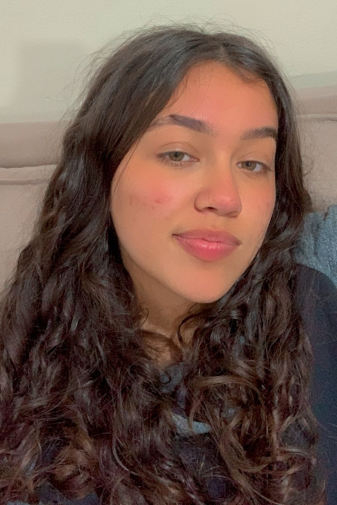
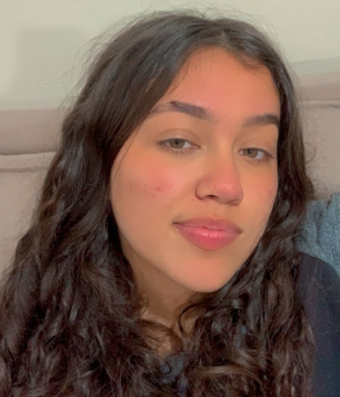
fotos atualizadas

diff --git a/index.html b/index.html
@@ -34,14 +34,14 @@
 
         <div class="kike">
             <img src="imagens/kike.png" alt="desenvolvedor">
-            <h3>desenvolvedor</h3>
+            <h3>Desenvolvedor</h3>
             <p>Henrique é o nosso desenvolvedor principal, ou seja ele é o responsável por estruturar Layouts e toda a interface de um Web Site solicitado pelos clientes</p>
         </div>
 
         <div class="emy">
             <img src="imagens/vida.png" alt="designer">
             <h3>Designer</h3>
-            <p>Emilly sem Dúvidas a mais criativa entre nós, cuida da parte do Design, os clientes entram em contato com ela para personalizar o projeto e logo em seguida transpassa-lo para a web</p>
+            <p>Emilly sem dúvidas a mais criativa entre nós, cuida da parte do Design, os clientes entram em contato com ela para personalizar o projeto e logo em seguida transpassa-lo para a web</p>
         </div>
 
         <div class="kams">
@@ -64,7 +64,7 @@
         <div class="thayssa">
             <img src="imagens/thayssa.png" alt="">
             <h3>Comercio Exterior</h3>
-            <p>Thayssa é a Responsável por ligações estrangeiras, ou seja, ela que fecha negócios com clientes a nível internacional.  </p>
+            <p>Thayssa é a responsável por ligações estrangeiras, ou seja, ela que fecha negócios com clientes a nível internacional.  </p>
         </div>
 
 
